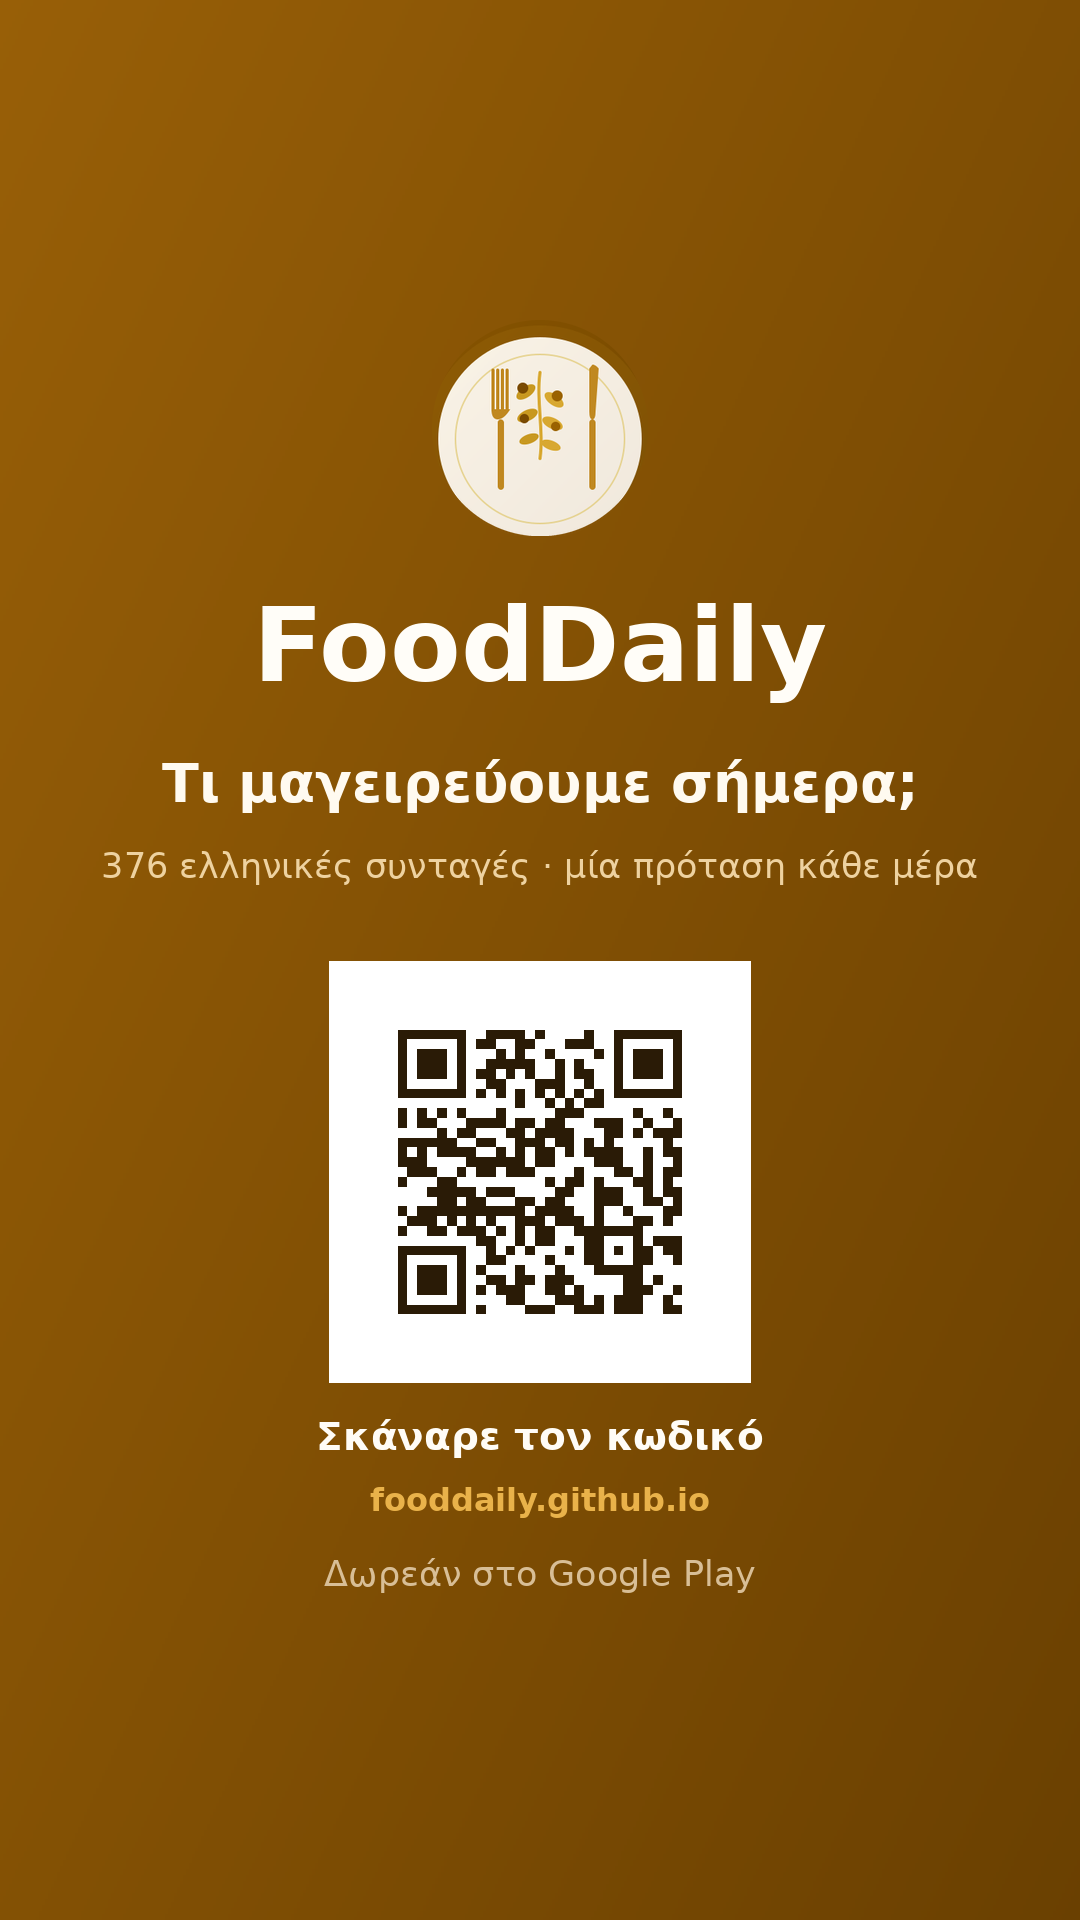
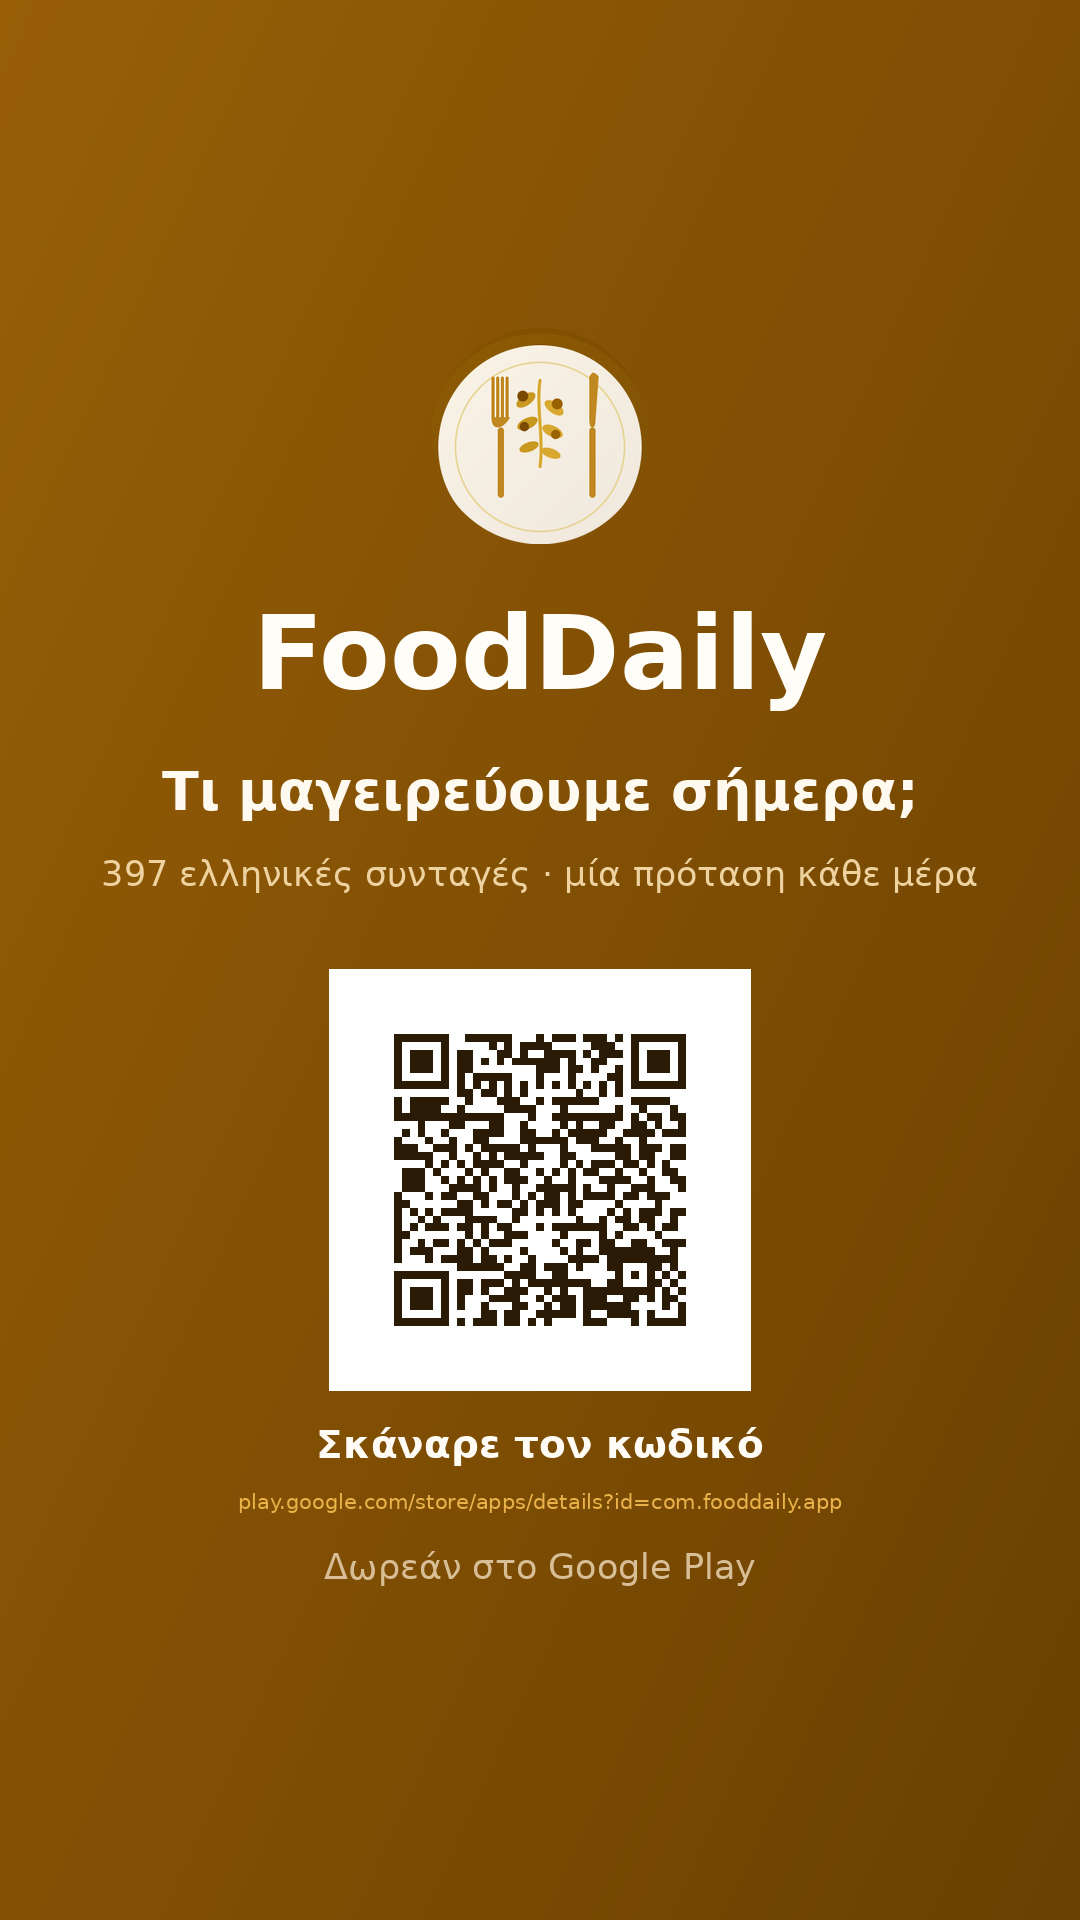
Το QR οδηγεί στο Google Play, όχι στο site
Η παλιά διεύθυνση είχε το επώνυμο του δημιουργού μέσα της και περνούσε από
ενδιάμεση σελίδα. Όποιος σκανάρει θέλει να εγκαταστήσει.

Επαληθεύτηκε με αποκωδικοποίηση των ίδιων των εικόνων, και στις τέσσερις:
https://play.google.com/store/apps/details?id=com.fooddaily.app

Μαζί δύο διορθώσεις: το αγγλικό «376 Greek recipes» που είχε ξεφύγει, και το
μοτίβο του _count_update.py που δεν το έπιανε επειδή μεσολαβούσε λέξη.

Claude-Session: https://claude.ai/code/session_01LFM8e599yzk86PVkNmpED4

diff --git a/store/share_card.py b/store/share_card.py
@@ -10,20 +10,24 @@ ROOT = os.path.dirname(os.path.dirname(os.path.abspath(__file__)))
 OUT  = os.path.join(ROOT, 'store')
 FB = '/usr/share/fonts/truetype/dejavu/DejaVuSans-Bold.ttf'
 FR = '/usr/share/fonts/truetype/dejavu/DejaVuSans.ttf'
-URL = 'fooddaily.github.io'
+# Το QR οδηγεί ΑΠΕΥΘΕΙΑΣ στο Google Play, όχι στο site: όποιος σκανάρει θέλει
+# να εγκαταστήσει, και μια ενδιάμεση σελίδα χάνει τους μισούς. Η διεύθυνση του
+# site είχε και το επώνυμο του δημιουργού μέσα της.
+QR_URL = 'https://play.google.com/store/apps/details?id=com.fooddaily.app'
+URL    = 'play.google.com/store/apps/details?id=com.fooddaily.app'
 
 T = {'el': {'tag': 'Τι μαγειρεύουμε σήμερα;',
             'sub': '397 ελληνικές συνταγές · μία πρόταση κάθε μέρα',
             'act': 'Σκάναρε τον κωδικό',
             'free': 'Δωρεάν στο Google Play'},
      'en': {'tag': 'What are we cooking today?',
-            'sub': '376 Greek recipes · one idea every day',
+            'sub': '397 Greek recipes · one idea every day',
             'act': 'Scan the code',
             'free': 'Free on Google Play'}}
 
 def qr_img(px):
     q = qrcode.QRCode(error_correction=qrcode.constants.ERROR_CORRECT_M, box_size=10, border=2)
-    q.add_data('https://' + URL); q.make(fit=True)
+    q.add_data(QR_URL); q.make(fit=True)
     return q.make_image(fill_color=(42, 27, 6), back_color='white').convert('RGB').resize((px, px), Image.NEAREST)
 
 def build(lang, W, H, name):
@@ -44,7 +48,7 @@ def build(lang, W, H, name):
     def layout(k):
         F = lambda f, r: ImageFont.truetype(f, max(10, round(S * r * k)))
         fn = {'name': F(FB, .095), 'tag': F(FB, .050), 'sub': F(FR, .032),
-              'act': F(FB, .036), 'url': F(FB, .030)}
+              'act': F(FB, .036), 'url': F(FR, .019)}
         D = round(S * .20 * k)
         Q = round(S * .30 * k)
         pad = round(S * .045 * k)

diff --git a/_prepared/_count_update.py b/_prepared/_count_update.py
@@ -48,7 +48,9 @@ def main():
     # Κάθε τριψήφιος αριθμός 300-499 δίπλα σε «συνταγές/recipes/Rezepte» ή μόνος
     # του σε φράση πλήθους. Στενό επίτηδες: ευρύτερο μοτίβο θα χτυπούσε
     # θερμίδες, γραμμάρια και χρόνους.
-    pat = re.compile(r'\b([34]\d\d)\b(?=\+?\s*(?:ελληνικ[έε]ς\s+)?(?:συνταγ|recipe|Rezept))')
+    # Επιτρέπεται μία λέξη ανάμεσα στον αριθμό και το ουσιαστικό: το
+    # «376 Greek recipes» ξέφευγε και έμεινε λάθος.
+    pat = re.compile(r'\b([34]\d\d)\b(?=\+?\s*(?:\w+\s+)?(?:συνταγ|recipe|Rezept))')
     total = 0
     for rel in TARGETS:
         p = os.path.join(ROOT, rel)
